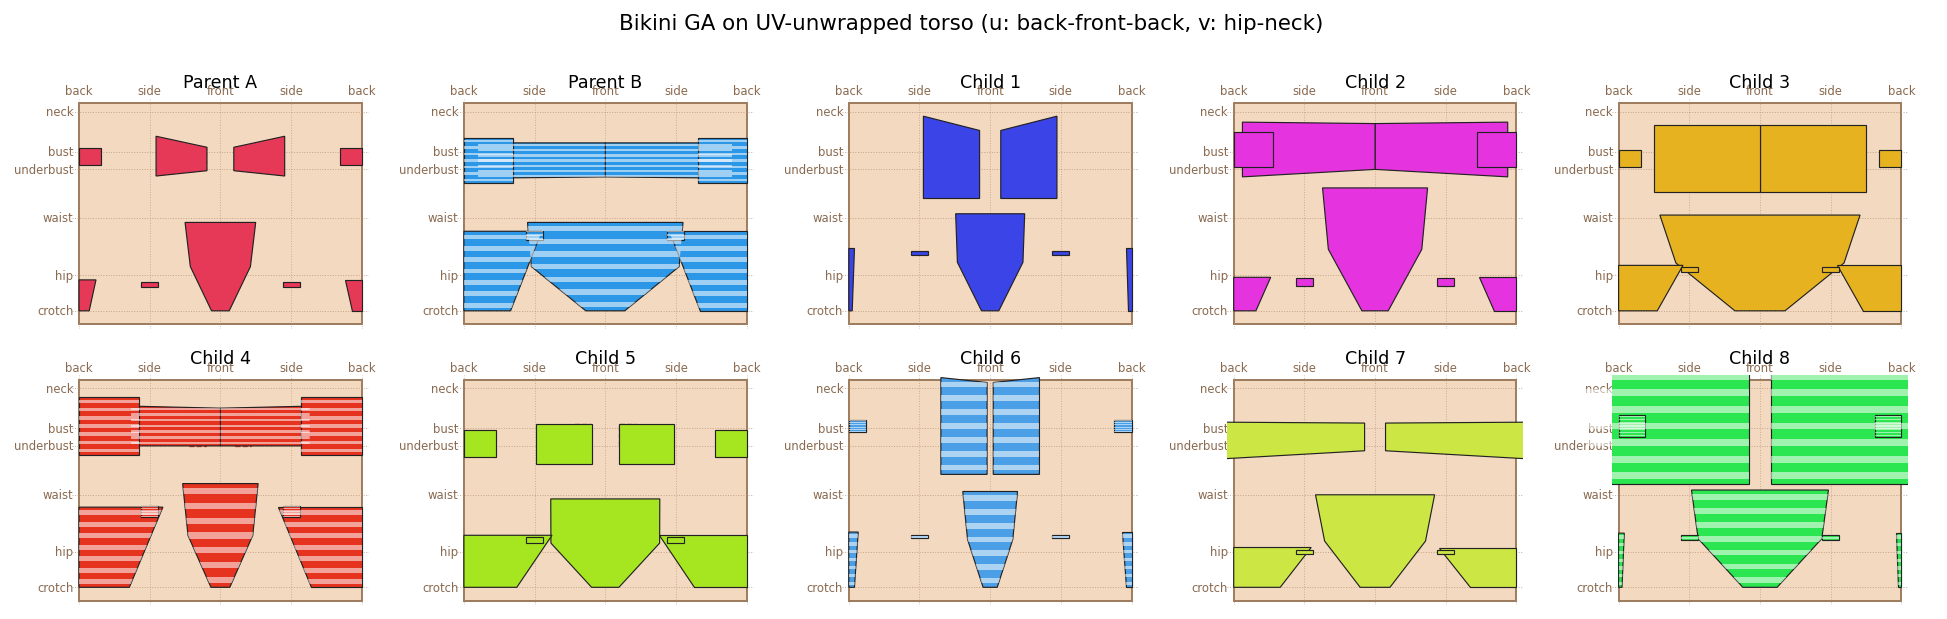
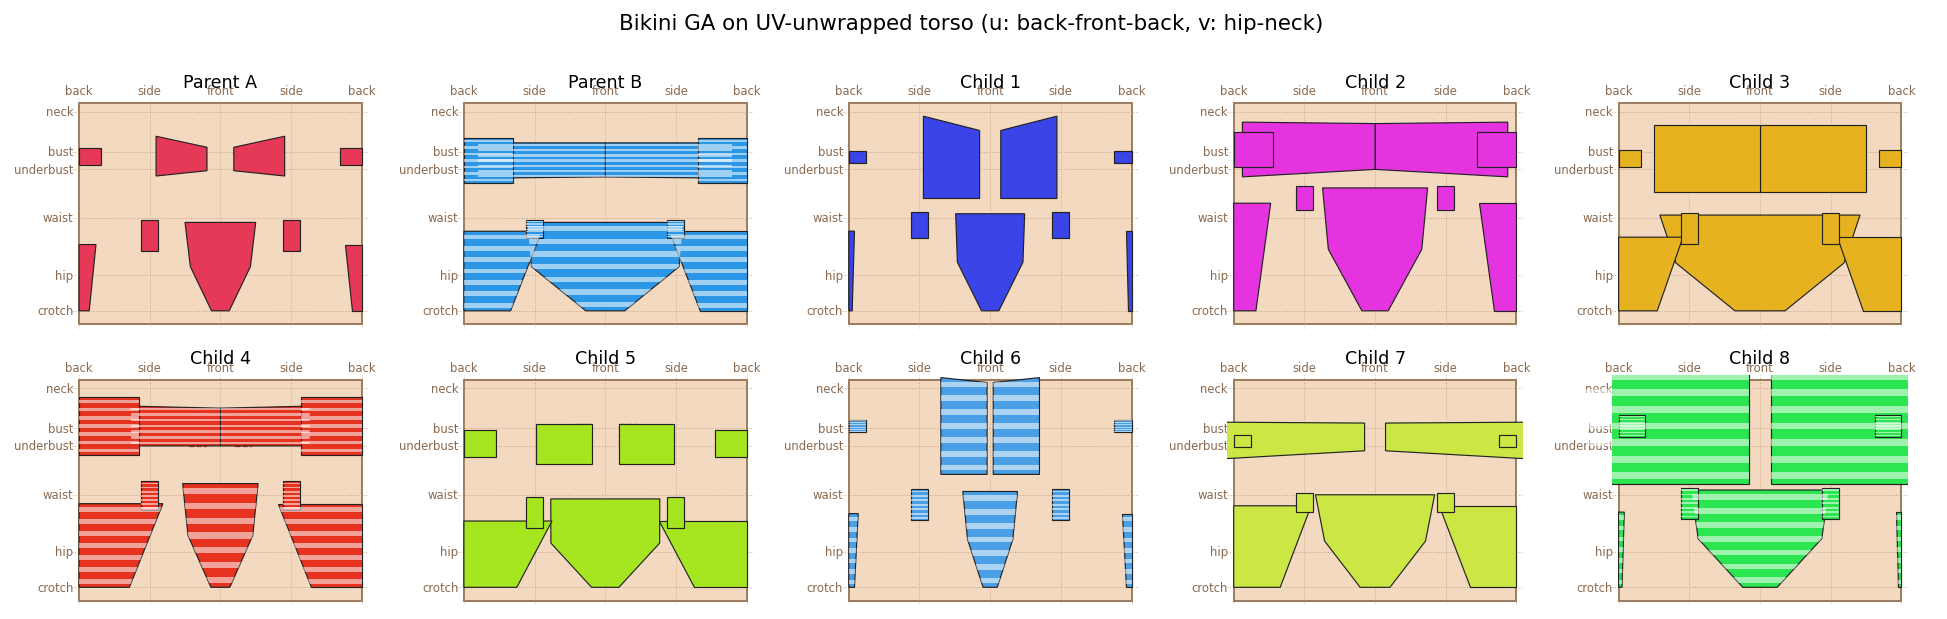
ga: add stay-on topology + 3D strap geometry
Path A (topology constraints in verify_ga_uv.py) — Genome now guarantees
the garment can physically stay on the body:

- top_back_coverage clamped to >= 0.05 so the front cups are always
  connected to something at the back (no floating cups)
- |bot_front_top_v - bot_back_top_v| clamped to <= 0.10 so the side
  ties can actually bridge the two waist-lines into one loop
- _side_tie_polygons now spans the full v-range between front and back
  waists rather than a single horizontal strip at one height

Path B (3D strap meshes in render3d_uv.py) — each bikini now draws
actual 3D ribbon geometry sitting 5mm off the body for the closing
loops that hold it on:

- build_strap_meshes(): back band arc at bust level (right cup outer ->
  around the back -> left cup outer), waist band ring at the average of
  front/back waist-lines, two slim side ties on the hips
- _body_ring() samples the body cross-section at a given Y, excluding
  T-pose arm vertices (r_xz > 25 cm) so the rings don't flare out to
  the forearms
- _build_band_mesh() triangulates only between CONSECUTIVE ACTIVE
  ring points, so partial arcs don't draw a chord across the inactive
  gap; full rings get their closing edge too

Straps use the Genome's albedo color via a second MaterialRecord so
they read as part of the bikini. Result: every rendered genome now has
visible closed loops (back band, waist string + side ties) showing
where the garment mechanically attaches.

diff --git a/tools/render3d_uv.py b/tools/render3d_uv.py
@@ -165,6 +165,17 @@ def load_body_mesh() -> o3d.geometry.TriangleMesh:
     return mesh
 
 
+def torso_anchors(mesh: o3d.geometry.TriangleMesh) -> tuple[float, float]:
+    """Return (y_crotch, y_neck) for this body mesh, computed with the same
+    empirical fractions used by cylindrical_uvs. Exposed so the strap
+    builders can place bands at the same body heights as the UV texture.
+    """
+    V = np.asarray(mesh.vertices)
+    y_min, y_max = np.percentile(V[:, 1], [2, 98])
+    body_height = y_max - y_min
+    return y_min + 0.337 * body_height, y_min + 0.939 * body_height
+
+
 def cylindrical_uvs(mesh: o3d.geometry.TriangleMesh) -> np.ndarray:
     """Compute per-triangle, per-vertex UVs by projecting the body onto a
     cylinder. Returns a (num_triangles*3, 2) float array.
@@ -212,12 +223,224 @@ def cylindrical_uvs(mesh: o3d.geometry.TriangleMesh) -> np.ndarray:
 
 
 # --------------------------------------------------------------------------
+# 3D strap meshes — closed-loop geometry so each bikini looks like it's
+# actually held on the body (Path B in the stay-on discussion).
+#
+# Each strap is a ribbon generated by sampling the body surface at a fixed
+# y, offsetting the sampled points outward along their radial direction in
+# the XZ plane, then extruding up/down by the strap thickness.
+# --------------------------------------------------------------------------
+
+def _body_ring(body_vertices: np.ndarray, y_level: float, y_halfband: float,
+               n_samples: int = 96, max_torso_radius: float = 25.0,
+               ) -> np.ndarray:
+    """Sample the body's cross-section at y=y_level as a ring of points.
+
+    Filters out limb vertices (T-pose arms reach x=+-45 on this NPC) by
+    only keeping vertices within `max_torso_radius` of the body's vertical
+    axis in XZ.
+    """
+    near = body_vertices[(body_vertices[:, 1] > y_level - y_halfband) &
+                          (body_vertices[:, 1] < y_level + y_halfband)]
+    if len(near) > 0:
+        r = np.sqrt(near[:, 0] ** 2 + near[:, 2] ** 2)
+        near = near[r < max_torso_radius]
+    if len(near) < n_samples // 4:
+        # Not enough torso vertices in this band: fall back to anything in
+        # the y window so we still get a ring (will be approximate).
+        near = body_vertices[(body_vertices[:, 1] > y_level - y_halfband) &
+                              (body_vertices[:, 1] < y_level + y_halfband)]
+
+    theta = np.arctan2(near[:, 0], near[:, 2])
+    targets = np.linspace(-np.pi, np.pi, n_samples, endpoint=False)
+    ring = []
+    for t in targets:
+        d = np.abs(np.mod(theta - t + np.pi, 2 * np.pi) - np.pi)
+        idx = int(np.argmin(d))
+        ring.append([near[idx, 0], y_level, near[idx, 2]])
+    return np.array(ring, dtype=np.float32)
+
+
+def _build_band_mesh(ring: np.ndarray, band_thickness: float, offset: float,
+                      u_from: float | None = None,
+                      u_to: float | None = None,
+                      ) -> o3d.geometry.TriangleMesh:
+    """Turn a ring of body surface points into a ribbon mesh that sits just
+    off the body. If u_from/u_to are given we clip to that arc.
+
+    ring is expected to be sorted by cylindrical angle theta in [-pi, pi].
+    For a full ring (u_from=u_to=None) the closing edge between index N-1
+    and 0 is also emitted. For a clipped arc, only consecutive ACTIVE
+    vertices generate triangles — no jump across the inactive gap.
+    """
+    N = len(ring)
+    thetas = np.arctan2(ring[:, 0], ring[:, 2])
+
+    if u_from is None and u_to is None:
+        active = np.ones(N, dtype=bool)
+        full_ring = True
+    else:
+        t_from = u_from * np.pi
+        t_to = u_to * np.pi
+        if t_from <= t_to:
+            active = (thetas >= t_from) & (thetas <= t_to)
+        else:
+            active = (thetas >= t_from) | (thetas <= t_to)
+        full_ring = False
+
+    if active.sum() < 2:
+        return o3d.geometry.TriangleMesh()
+
+    # radial offset outward in XZ, then split into lower / upper rings
+    radial = np.stack([ring[:, 0], np.zeros(N), ring[:, 2]], axis=1)
+    r_len = np.linalg.norm(radial, axis=1, keepdims=True)
+    r_unit = radial / np.maximum(r_len, 1e-6)
+    outer_ring = ring + r_unit * offset
+
+    lower = outer_ring.copy(); lower[:, 1] -= band_thickness / 2
+    upper = outer_ring.copy(); upper[:, 1] += band_thickness / 2
+    verts = np.empty((2 * N, 3), dtype=np.float32)
+    verts[0::2] = lower
+    verts[1::2] = upper
+
+    faces = []
+    # emit a quad only if BOTH endpoints are active (skips jumps across the
+    # inactive arc for partial rings)
+    for i in range(N - 1):
+        if active[i] and active[i + 1]:
+            b0, t0, b1, t1 = 2 * i, 2 * i + 1, 2 * (i + 1), 2 * (i + 1) + 1
+            faces.append([b0, t0, t1])
+            faces.append([b0, t1, b1])
+    # closing edge for full ring
+    if full_ring and active[N - 1] and active[0]:
+        b0, t0, b1, t1 = 2 * (N - 1), 2 * (N - 1) + 1, 0, 1
+        faces.append([b0, t0, t1])
+        faces.append([b0, t1, b1])
+    # closing edge for arc that wraps the seam (first-and-last both active
+    # even though arc goes through the back)
+    if (not full_ring) and active[N - 1] and active[0]:
+        # only close if the inactive gap sits in the middle of the index
+        # array (i.e., there are inactive points in between); otherwise
+        # closing would duplicate an existing seam
+        if (~active).any():
+            b0, t0, b1, t1 = 2 * (N - 1), 2 * (N - 1) + 1, 0, 1
+            faces.append([b0, t0, t1])
+            faces.append([b0, t1, b1])
+
+    if not faces:
+        return o3d.geometry.TriangleMesh()
+
+    faces = np.array(faces, dtype=np.int32)
+    tri = o3d.geometry.TriangleMesh()
+    tri.vertices = o3d.utility.Vector3dVector(verts.astype(np.float64))
+    tri.triangles = o3d.utility.Vector3iVector(faces)
+    tri.compute_vertex_normals()
+    return tri
+
+
+def _build_tie_mesh(body_vertices: np.ndarray, y_lo_world: float, y_hi_world: float,
+                    u_side: float, band_offset: float = 0.6
+                    ) -> o3d.geometry.TriangleMesh:
+    """Slim vertical ribbon at the side of the hip that bridges front and
+    back waist-lines (the side-tie knot area of a tie-side bikini)."""
+    # find a body vertex near (u_side, y_center)
+    theta = u_side * np.pi
+    y_center = (y_lo_world + y_hi_world) / 2
+    near = body_vertices[(body_vertices[:, 1] > y_lo_world - 1) &
+                          (body_vertices[:, 1] < y_hi_world + 1)]
+    if len(near) < 4:
+        return o3d.geometry.TriangleMesh()
+    nt = np.arctan2(near[:, 0], near[:, 2])
+    d = np.abs(np.mod(nt - theta + np.pi, 2 * np.pi) - np.pi)
+    idx = int(np.argmin(d))
+    p = near[idx]
+    rxz = np.array([p[0], 0, p[2]]); rxz /= max(np.linalg.norm(rxz), 1e-6)
+    p_out = p + rxz * band_offset
+    half_w = 0.6
+    # vertices: four corners of a slim vertical rectangle facing outward
+    tangent = np.array([-rxz[2], 0, rxz[0]]) * half_w
+    v0 = p_out + tangent; v0[1] = y_lo_world
+    v1 = p_out - tangent; v1[1] = y_lo_world
+    v2 = p_out - tangent; v2[1] = y_hi_world
+    v3 = p_out + tangent; v3[1] = y_hi_world
+    verts = np.array([v0, v1, v2, v3], dtype=np.float64)
+    faces = np.array([[0, 1, 2], [0, 2, 3]], dtype=np.int32)
+    tri = o3d.geometry.TriangleMesh()
+    tri.vertices = o3d.utility.Vector3dVector(verts)
+    tri.triangles = o3d.utility.Vector3iVector(faces)
+    tri.compute_vertex_normals()
+    return tri
+
+
+def build_strap_meshes(body_mesh: o3d.geometry.TriangleMesh, g,
+                       y_crotch: float, y_neck: float
+                       ) -> list[tuple[str, o3d.geometry.TriangleMesh]]:
+    """Build 3D strap/band meshes for a Genome. Returns list of (name, mesh).
+
+    Uses the same (y_crotch, y_neck) anchors as the cylindrical UV so strap
+    positions match the textured-panel positions.
+    """
+    V = np.asarray(body_mesh.vertices)
+    straps = []
+
+    def v_to_y(v: float) -> float:
+        return y_crotch + v * (y_neck - y_crotch)
+
+    # 1) Top back band — horizontal ring at bust level, reaching from the
+    #    right cup's outer edge, around the back, to the left cup's outer
+    #    edge (the arc that does NOT pass through the front).
+    cup_outer_u = g.top_inner_u + 2 * g.top_half_u
+    band_y = v_to_y(g.top_center_v)
+    band_h = max(1.2, 1.5 + 2.0 * g.top_back_coverage)   # thin: 1.5-3.5 cm
+    ring = _body_ring(V, band_y, y_halfband=3.0, n_samples=96)
+    back_band = _build_band_mesh(ring, band_h, offset=0.5,
+                                  u_from=cup_outer_u, u_to=-cup_outer_u)
+    straps.append(("top_back_band", back_band))
+
+    # 2) Bottom waist string — thin ring at the average of front/back tops.
+    #    Asymmetric waists (high-front + thong-back) rely on the side ties
+    #    to bridge the height difference; keep the band itself uniformly
+    #    thin so it reads as a string, not a wide belt.
+    y_front = v_to_y(g.bot_front_top_v)
+    y_back  = v_to_y(g.bot_back_top_v)
+    band_y2 = (y_front + y_back) / 2
+    band_h2 = 1.5
+    ring2 = _body_ring(V, band_y2, y_halfband=3.0, n_samples=96)
+    waist_band = _build_band_mesh(ring2, band_h2, offset=0.5)
+    straps.append(("waist_band", waist_band))
+
+    # 3) Side ties — slim vertical ribbon on each hip spanning the v-range
+    #    between front and back waist-lines (visible bridge for tie-side
+    #    bikinis).
+    y_side_lo = min(y_front, y_back) - 0.8
+    y_side_hi = max(y_front, y_back) + 0.8
+    for u_side, name in [(0.5, "side_tie_R"), (-0.5, "side_tie_L")]:
+        tie = _build_tie_mesh(V, y_side_lo, y_side_hi, u_side)
+        straps.append((name, tie))
+
+    return straps
+
+
+# --------------------------------------------------------------------------
 # Offscreen rendering
 # --------------------------------------------------------------------------
 
+def _color_from_genome(g) -> tuple[float, float, float, float]:
+    from verify_ga_uv import _color as vc
+    r, gg, b = vc(g)
+    return (r, gg, b, 1.0)
+
+
 def render_mesh(renderer, mesh: o3d.geometry.TriangleMesh,
-                texture_pil: Image.Image) -> np.ndarray:
-    """Apply the texture and render a single frame. Returns HxWx3 uint8."""
+                texture_pil: Image.Image, genome=None,
+                y_crotch: float | None = None, y_neck: float | None = None
+                ) -> np.ndarray:
+    """Apply the texture and render a single frame. Returns HxWx3 uint8.
+
+    If `genome, y_crotch, y_neck` are given, 3D strap meshes are added so
+    each bikini has visible closed-loop straps (back band, waist band,
+    side ties) that hold it on the body.
+    """
     tex_np = np.array(texture_pil.convert("RGB"))
     o3d_tex = o3d.geometry.Image(tex_np)
 
@@ -230,6 +453,17 @@ def render_mesh(renderer, mesh: o3d.geometry.TriangleMesh,
     scene = renderer.scene
     scene.clear_geometry()
     scene.add_geometry("body", mesh, mat)
+
+    if genome is not None and y_crotch is not None and y_neck is not None:
+        strap_mat = o3d.visualization.rendering.MaterialRecord()
+        strap_mat.shader = "defaultLit"
+        strap_mat.base_color = _color_from_genome(genome)
+        strap_mat.base_roughness = 0.55
+        strap_mat.base_metallic = 0.0
+        for name, strap in build_strap_meshes(mesh, genome, y_crotch, y_neck):
+            if len(strap.vertices) > 0:
+                scene.add_geometry(f"strap_{name}", strap, strap_mat)
+
     fit_camera(renderer, mesh)
 
     img = renderer.render_to_image()
@@ -277,6 +511,7 @@ def main():
     mesh = load_body_mesh()
     uvs = cylindrical_uvs(mesh)
     mesh.triangle_uvs = o3d.utility.Vector2dVector(uvs)
+    y_crotch, y_neck = torso_anchors(mesh)
 
     renderer = make_renderer(RENDER_W, RENDER_H)
 
@@ -292,7 +527,8 @@ def main():
         tex = genome_to_texture(g)
         tag = label.lower().replace(" ", "_")
         tex.save(os.path.join(TEX_DIR, f"genome_{tag}.png"))
-        img = render_mesh(renderer, mesh, tex)
+        img = render_mesh(renderer, mesh, tex, genome=g,
+                          y_crotch=y_crotch, y_neck=y_neck)
         renders.append((label, img, g))
         print(f"  rendered {label} in {time.time() - t0:.1f}s")
 

diff --git a/tools/verify_ga_uv.py b/tools/verify_ga_uv.py
@@ -209,6 +209,21 @@ def _enforce_constraints(g: Genome) -> Genome:
     # --- minimum back coverage so back panels never collapse to nothing
     d["bot_back_half_u"] = max(d["bot_back_half_u"], 0.04)
 
+    # --- TOPOLOGY: a bikini that stays on the body needs closed loops.
+    # The top needs at least one band connecting the front cups to the back
+    # (otherwise the cups dangle forward and fall). The bottom needs the
+    # front and back panels to close into a single waist loop via the side
+    # ties — that only works if front and back waist-lines are close enough
+    # in v that the side tie can span them.
+    d["top_back_coverage"] = max(d["top_back_coverage"], 0.05)
+    # clamp front/back waist-v difference so the side tie can bridge them
+    MAX_WAIST_DIFF = 0.10
+    diff = d["bot_front_top_v"] - d["bot_back_top_v"]
+    if diff > MAX_WAIST_DIFF:
+        d["bot_back_top_v"] = d["bot_front_top_v"] - MAX_WAIST_DIFF
+    elif diff < -MAX_WAIST_DIFF:
+        d["bot_front_top_v"] = d["bot_back_top_v"] - MAX_WAIST_DIFF
+
     # --- non-degeneracy guards (kept from before)
     d["top_half_v"] = max(d["top_half_v"], 0.05)
     d["top_half_u"] = max(d["top_half_u"], 0.05)
@@ -306,15 +321,19 @@ def _bottom_back_polygons(g: Genome) -> list[list[tuple[float, float]]]:
 
 
 def _side_tie_polygons(g: Genome) -> list[list[tuple[float, float]]]:
-    """Thin side connectors between front and back bottom panels at u = ±0.5."""
-    top_v = min(g.bot_front_top_v, g.bot_back_top_v)
-    strap_h = 0.015 + 0.05 * g.top_back_coverage
-    v_center = top_v - 0.02
-    v0, v1 = v_center - strap_h / 2, v_center + strap_h / 2
+    """Side connectors bridging front and back bottom panels at u = ±0.5.
+
+    They must span the vertical range [min(front, back), max(front, back)] +
+    a small safety margin so the two panels are actually joined into one
+    waist loop (otherwise the bikini bottom is two disconnected flaps and
+    can't physically stay on).
+    """
+    v_lo = min(g.bot_front_top_v, g.bot_back_top_v) - 0.03
+    v_hi = max(g.bot_front_top_v, g.bot_back_top_v) + 0.01
     w = 0.06
     return [
-        [(-0.5 - w, v0), (-0.5 + w, v0), (-0.5 + w, v1), (-0.5 - w, v1), (-0.5 - w, v0)],
-        [( 0.5 - w, v0), ( 0.5 + w, v0), ( 0.5 + w, v1), ( 0.5 - w, v1), ( 0.5 - w, v0)],
+        [(-0.5 - w, v_lo), (-0.5 + w, v_lo), (-0.5 + w, v_hi), (-0.5 - w, v_hi), (-0.5 - w, v_lo)],
+        [( 0.5 - w, v_lo), ( 0.5 + w, v_lo), ( 0.5 + w, v_hi), ( 0.5 - w, v_hi), ( 0.5 - w, v_lo)],
     ]
 
 
